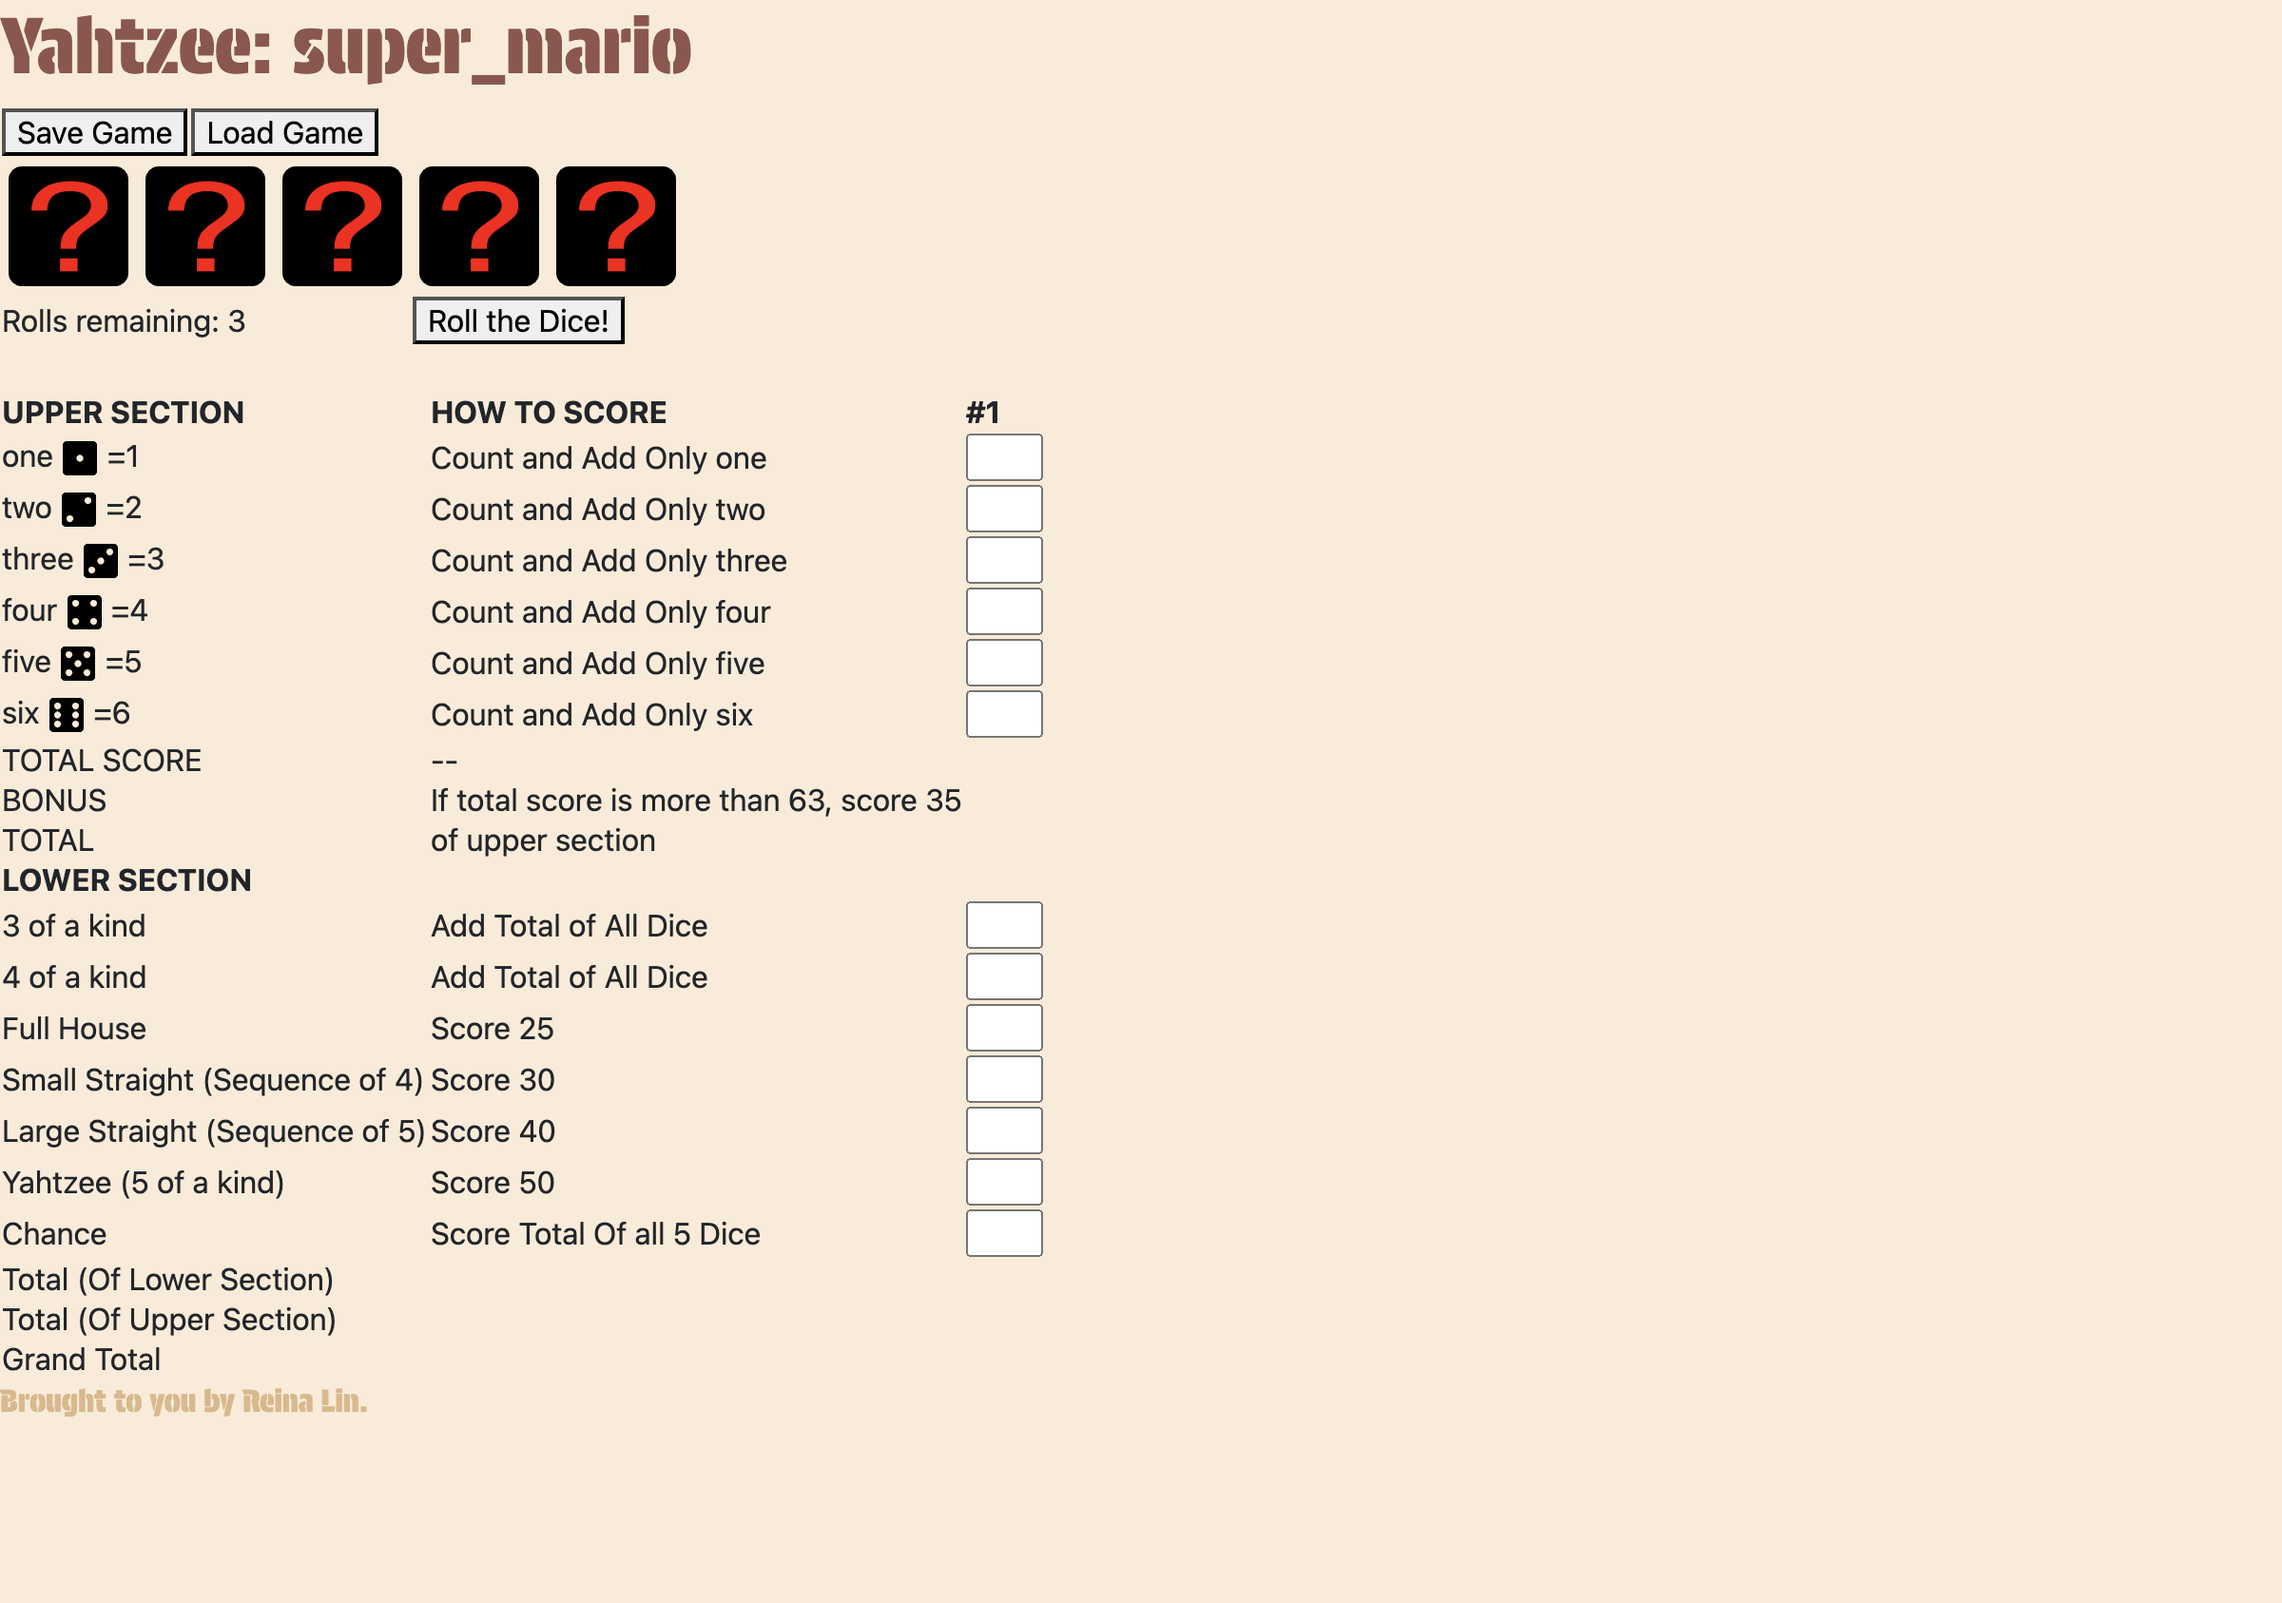
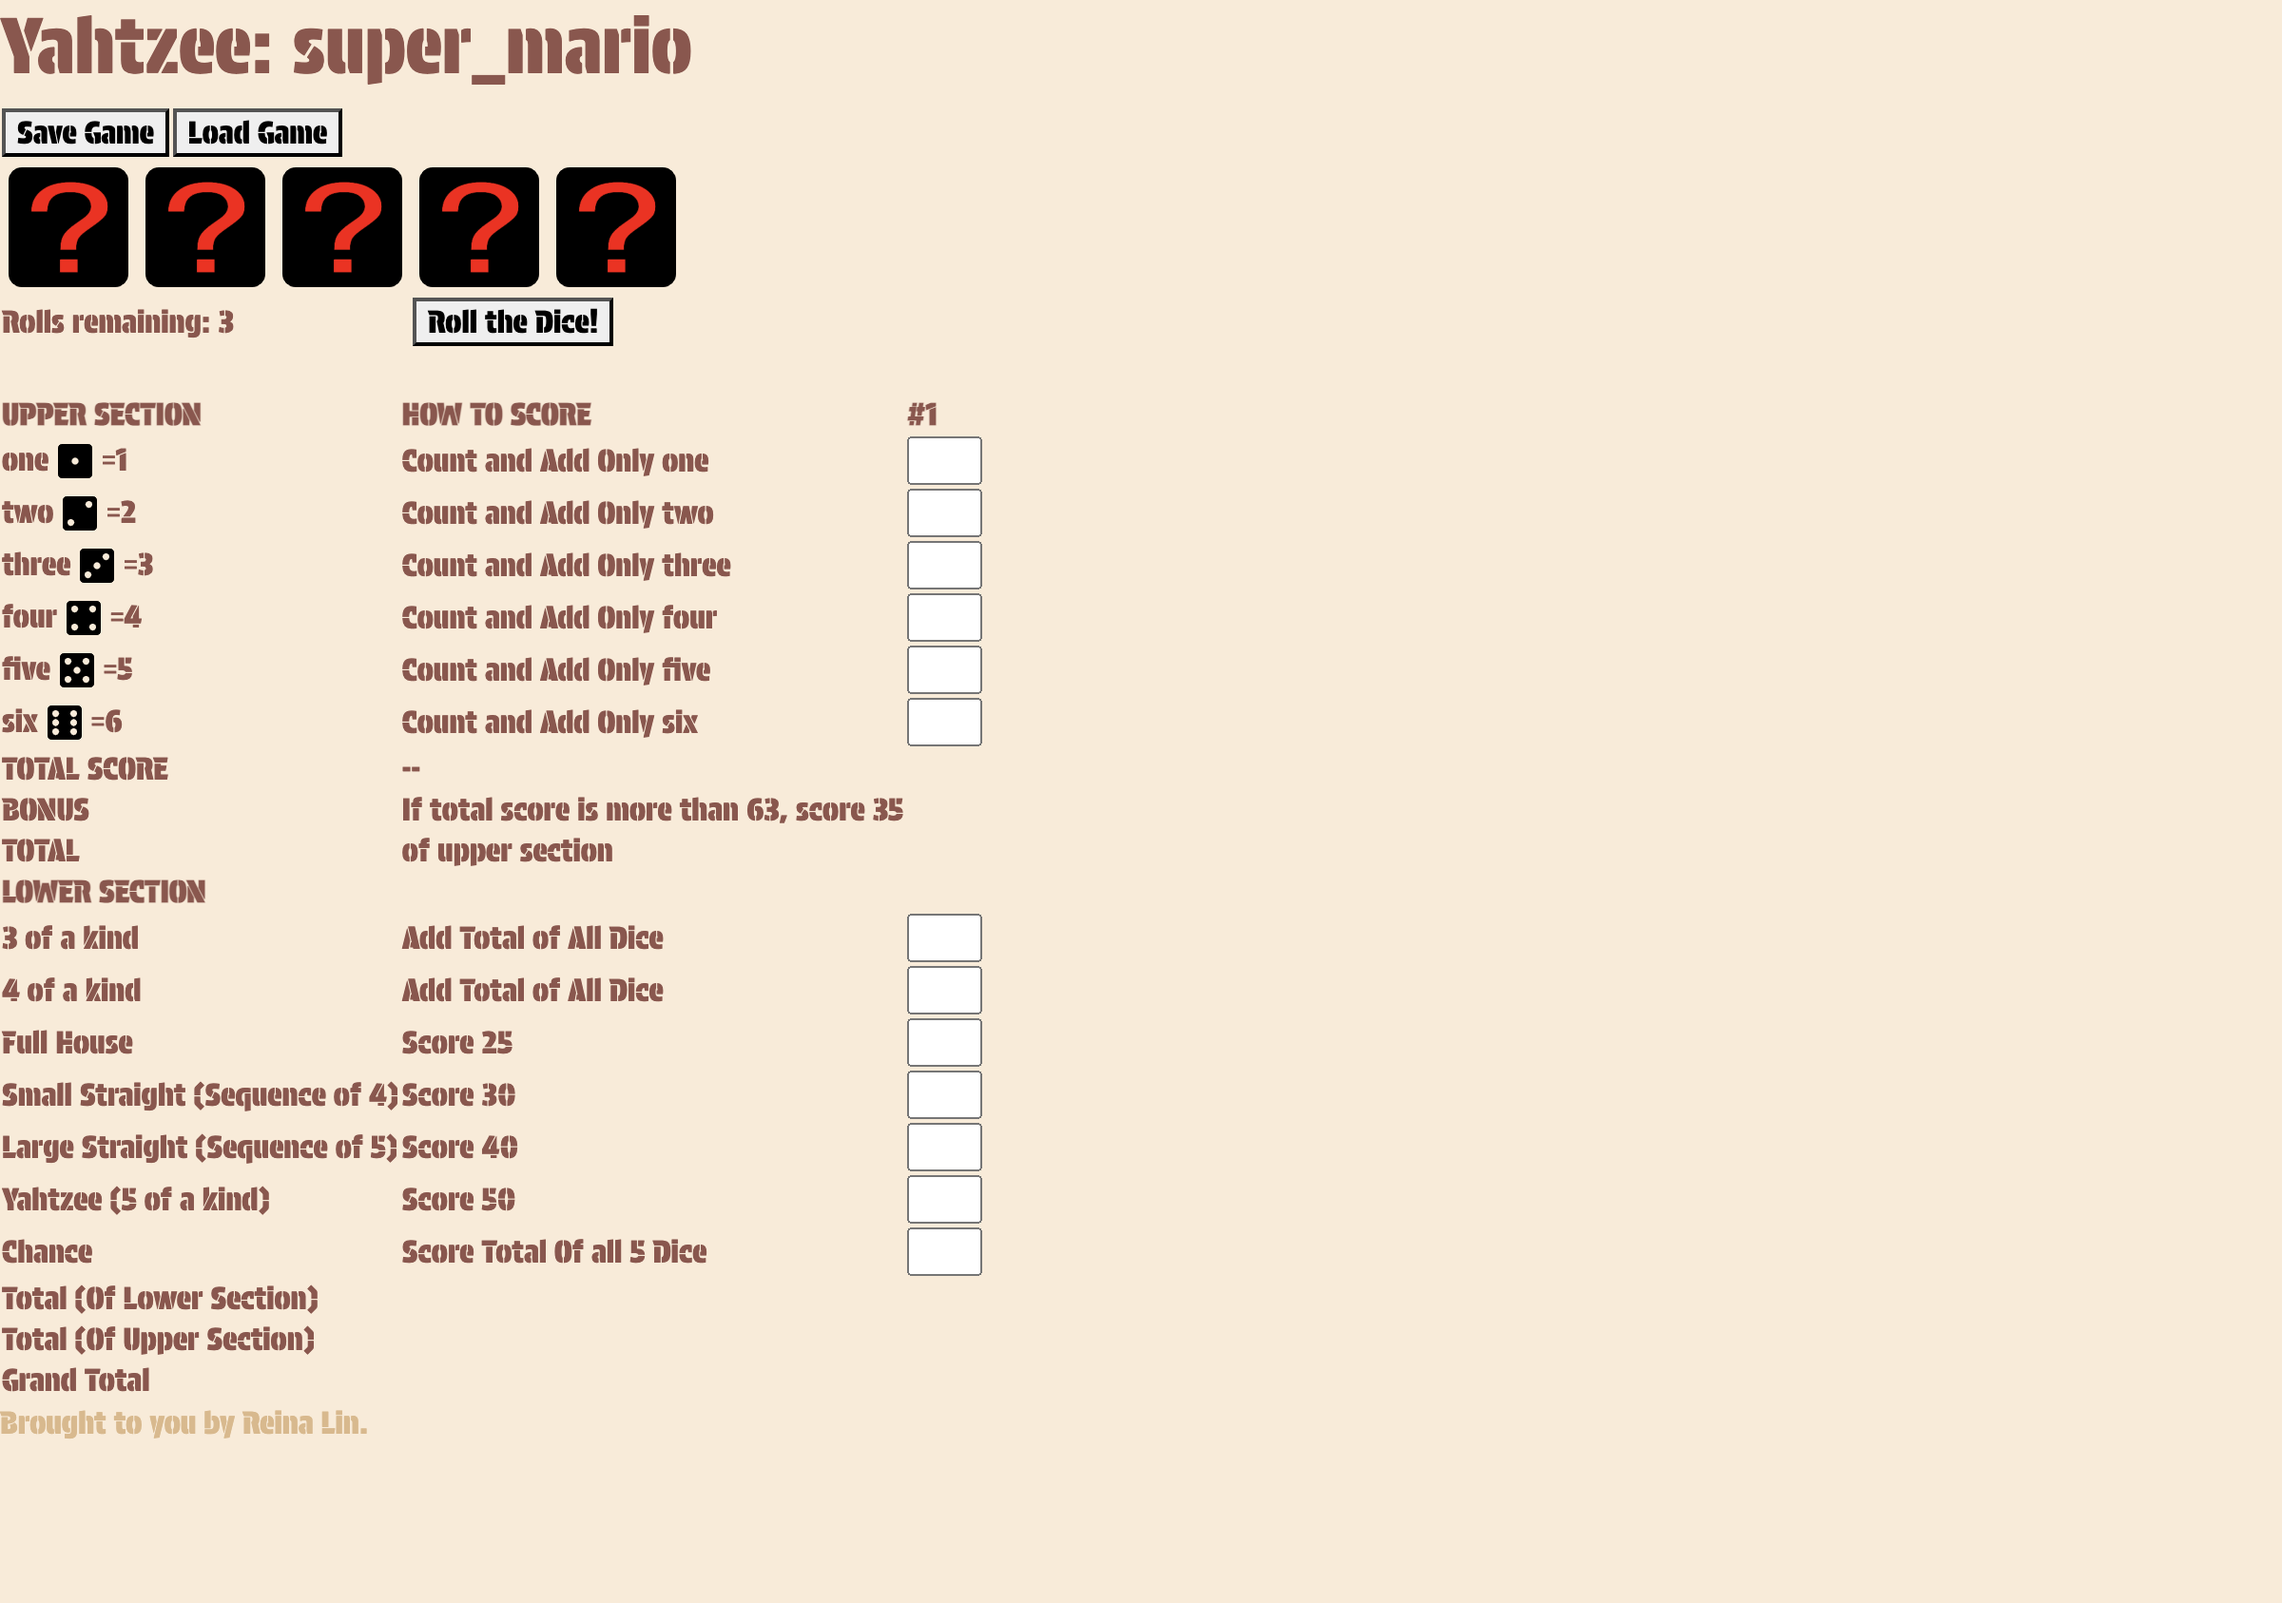
MS1

diff --git a/static/js/Dice.js b/static/js/Dice.js
@@ -94,6 +94,13 @@ class Dice{
             let dice_value = Math.floor(Math.random() * (6) + 1);
             dice_values.push(dice_value);
         }
+
+        for (let dice_index=0; dice_index<this.dice_elements.length; dice_index++) {
+            if (this.dice_elements[dice_index].className.includes("reserved")) {
+                dice_values[dice_index] = -1;
+            }
+        }
+
         this.set(dice_values, Number(this.rolls_remaining_element.innerHTML-1));
     }
 
@@ -118,14 +125,17 @@ class Dice{
      * @param {Object} element the <img> element representing the die to reserve
     */
     reserve(die_element){
-        die_element.classList.toggle("reserved");
-        console.log(die_element.getAttribute("class"))
+        if (die_element.src.includes("/img/blank.svg")) {
+            console.log("can't reserve blank dice");
+        } else {
+            die_element.classList.toggle("reserved");
+        }
     }
 
     /**
      * A useful testing method to conveniently change dice / rolls remaining
      * <br> A value of 0 indicates that the die should be blank
-     * <br> A value of -1 indicates that the die is reserved and should not be updated
+     * <br> A value of -1 indicates that the die should not be updated
      *
      * @param {Array} new_dice_values an array of five integers, one for each die value
      * @param {Number} new_rolls_remaining an integer representing the new value for rolls remaining
@@ -134,24 +144,9 @@ class Dice{
     set(new_dice_values, new_rolls_remaining){
         this.rolls_remaining_element.innerHTML = new_rolls_remaining;
         for (let i=0; i<new_dice_values.length; i++) {
-            if (new_dice_values[i] == 0) {
-                this.dice_elements[i].src = "img/blank.svg";
-            } else if (new_dice_values[i] == 1) {
-                this.dice_elements[i].src = "img/one.svg";
-            } else if (new_dice_values[i] == 2) {
-                this.dice_elements[i].src = "img/two.svg";
-            } else if (new_dice_values[i] == 3) {
-                this.dice_elements[i].src = "img/three.svg";
-            } else if (new_dice_values[i] == 4) {
-                this.dice_elements[i].src = "img/four.svg";
-            } else if (new_dice_values[i] == 5) {
-                this.dice_elements[i].src = "img/five.svg";
-            } else if (new_dice_values[i] == 6) {
-                this.dice_elements[i].src = "img/six.svg";
-            } else if (new_dice_values[i] == -1) {
-                console.log("reserving...");
-                this.reserve(this.dice_elements[i]);
-            }
+            if (new_dice_values[i] !== -1) {
+                this.dice_elements[i].src = "img/" + this.photo_names[new_dice_values[i]] + ".svg"
+            } 
         }
     }
 }

diff --git a/templates/login.html b/templates/login.html
@@ -5,18 +5,18 @@
     <meta name="viewport" content="width=device-width, initial-scale=1">
     <title>Yahtzee: Login</title>
     <link href="https://cdn.jsdelivr.net/npm/bootstrap@5.3.3/dist/css/bootstrap.min.css" rel="stylesheet" integrity="sha384-QWTKZyjpPEjISv5WaRU9OFeRpok6YctnYmDr5pNlyT2bRjXh0JMhjY6hW+ALEwIH" crossorigin="anonymous">
-    <link rel="stylesheet" type="text/css" href="styles.css">
+    <link rel="stylesheet" type="text/css" href="css/styles.css">
     <style>
       @import url('https://fonts.googleapis.com/css2?family=Protest+Guerrilla&display=swap');
       </style>
   </head>
-  <body style="background-color: antiquewhite">
+  <body>
     
     <form action="/game" method="GET">
-        <label for="username_input" style="font-family: Protest Guerrilla; color: rgb(145, 84, 75)">Username:</label>
+        <label for="username_input">Username:</label>
         <input id="username_input" type="text" name="username" /> <br />
      
-        <label for="password_input" style="font-family: Protest Guerrilla; color: rgb(145, 84, 75)">Password:</label>
+        <label for="password_input">Password:</label>
         <input id="password_input" type="text" name="password" />
      
         <input type="submit" id="login_submit" value="Submit" />

diff --git a/static/css/styles.css b/static/css/styles.css
@@ -1,14 +1,16 @@
 head {
-    background-color: lightblue;
+    background-color: antiquewhite;
+    font-family: "Protest Guerrilla", sans-serif;
+    color:rgb(145, 84, 75);
 }
 
 body {
-    background-color: lightblue;
+    background-color: antiquewhite;
+    font-family: "Protest Guerrilla", sans-serif; 
+    color:rgb(145, 84, 75)
 }
 
-.protest-guerrilla-regular {
-    font-family: "Protest Guerrilla", sans-serif;
-    font-weight: 400;
-    font-style: normal;
-  }
+.reserved {
+    border: 1px solid red;
+}
 

diff --git a/templates/game.html b/templates/game.html
@@ -9,8 +9,8 @@
       @import url('https://fonts.googleapis.com/css2?family=Protest+Guerrilla&display=swap');
       </style>
     </head>
-    <body style="background-color: antiquewhite">
-      <h1 style="font-family: Protest Guerrilla; color: rgb(145, 84, 75)">Yahtzee: {{username}}</h1>
+    <body>
+      <h1>Yahtzee: {{username}}</h1>
         <section id="save_and_load">
             <table>
                 <tr>                

diff --git a/templates/partial/footer.html b/templates/partial/footer.html
@@ -1,3 +1,3 @@
-<footer style="font-family: Protest Guerrilla; color: burlywood" >
+<footer>
 Brought to you by Reina Lin.
 </footer>

diff --git a/test_MS1_Dice_class.py b/test_MS1_Dice_class.py
@@ -204,8 +204,11 @@ class Dice_Helper_Function_Tests(unittest.TestCase):
                 if should_reserve:
                     ActionChains(self.browser).double_click(die_element).perform()
                 original_order.append((die_element.get_attribute("src").split("/")[-1], should_reserve))
-           
-            self.browser.execute_script(f"window.dice.roll();");
+            
+            self.browser.save_screenshot('before.png'); #for debugging purposes
+            self.browser.execute_script(f"window.dice.roll();")
+            self.browser.save_screenshot('after.png'); #for debugging purposes
+
             
             for i in range(5):#reserved dice should match original image names and still be reserved
                 die_element = self.browser.find_element(By.ID, f"die_{i}")
